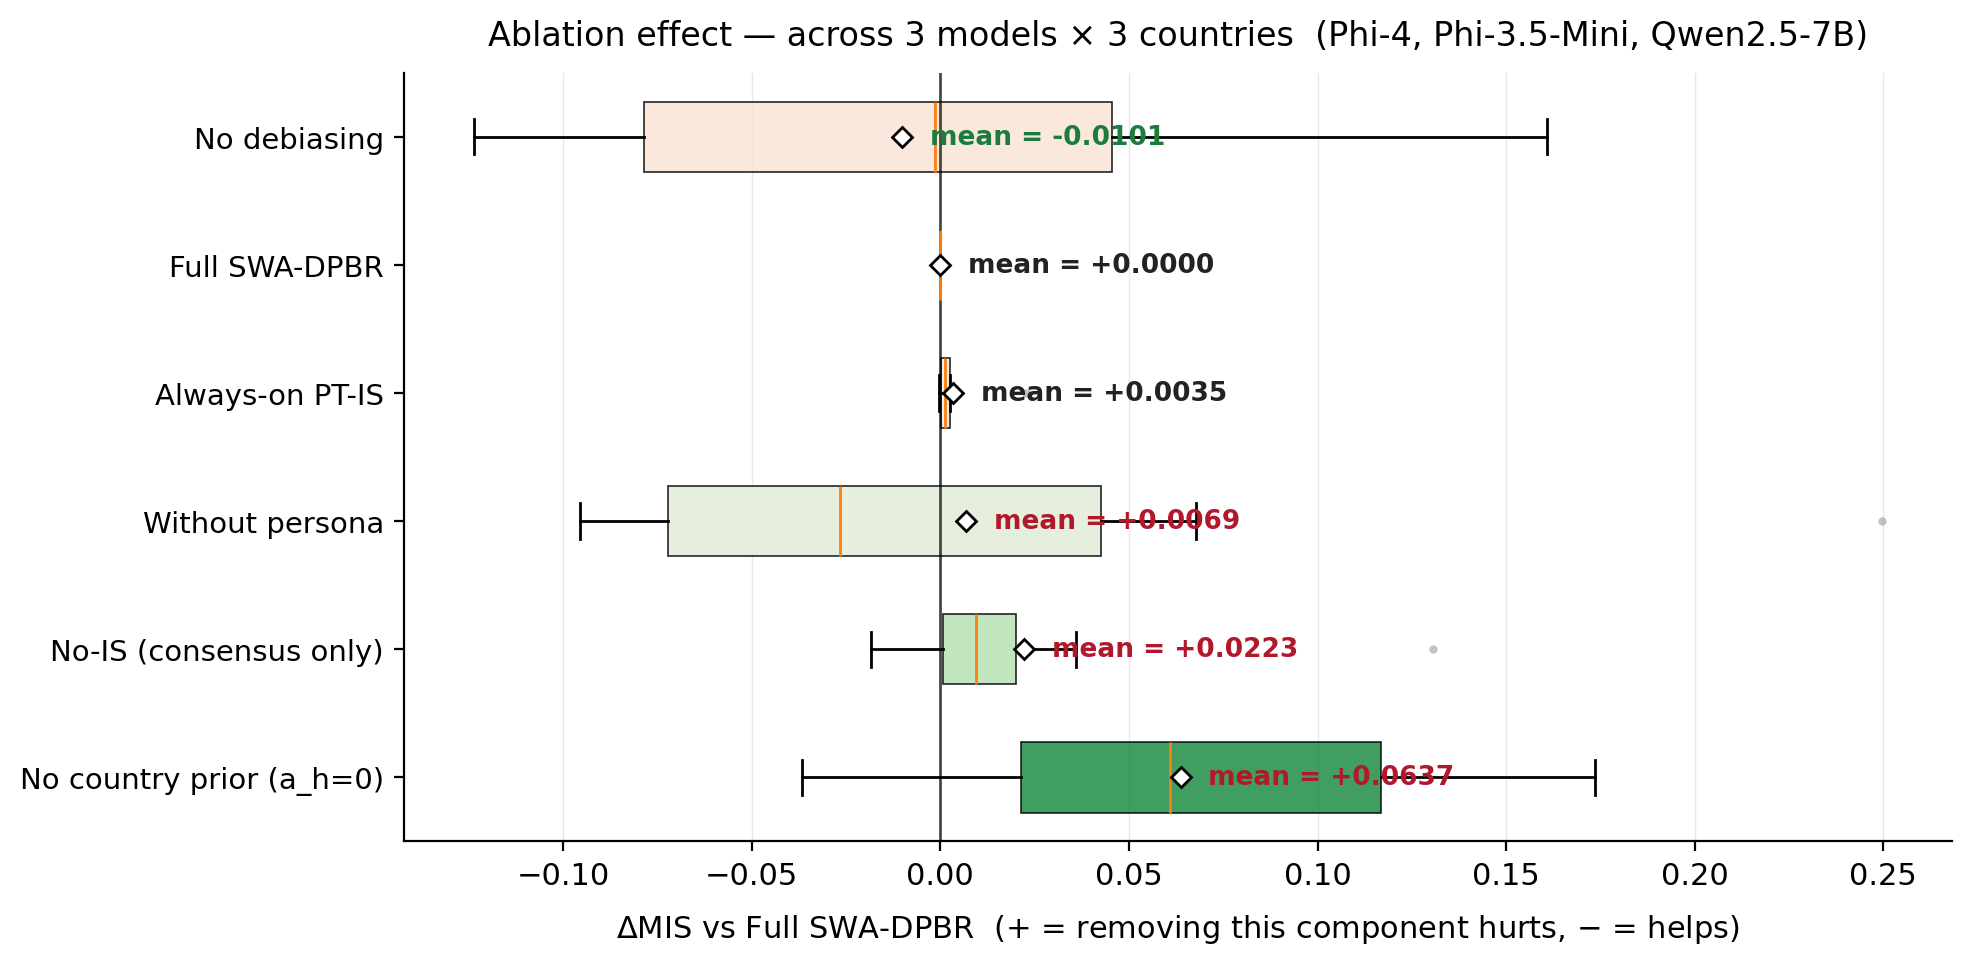
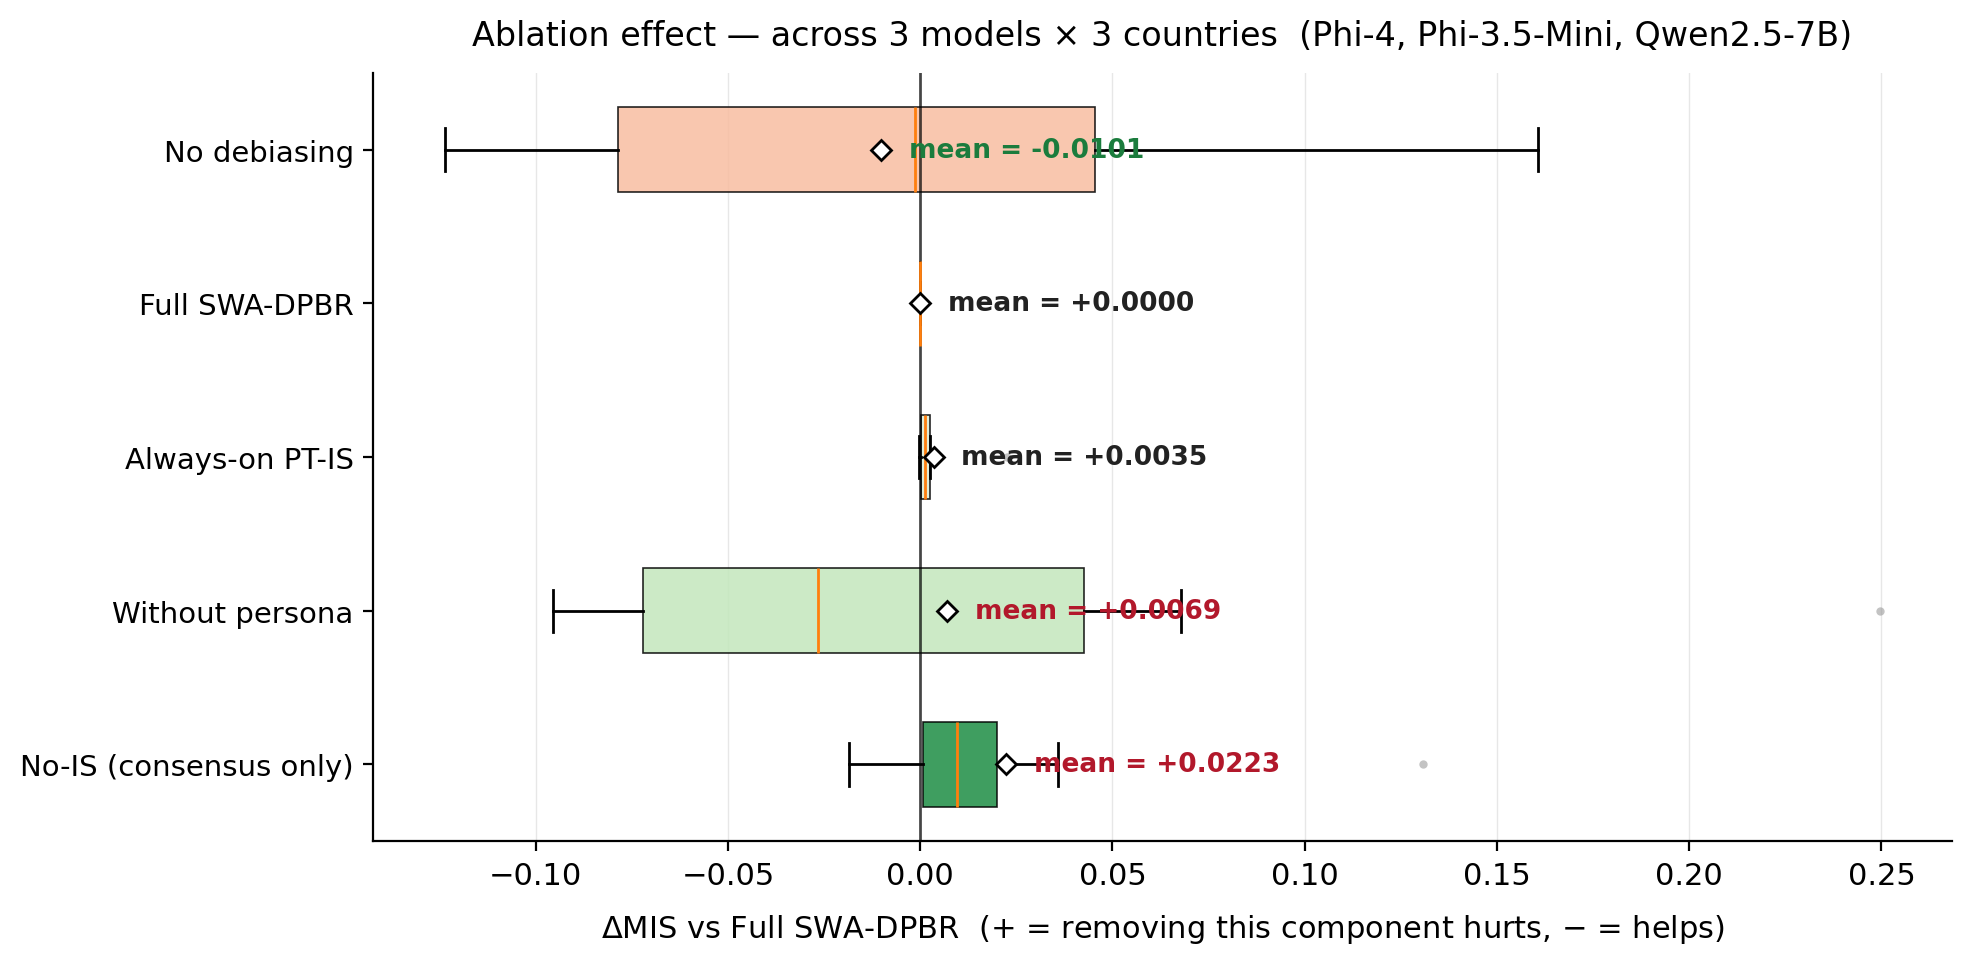
viz: drop No-country-prior ablation row from Visual 9
Remove "No country prior (a_h=0)" from the PRIMARY_ABLATIONS list so
Visual 9 only shows structural-component ablations (Step 2 debiasing,
PT-IS gate, persona panel, Step 3 IS). The country-prior knob is a
hyperparameter on the hierarchical EMA, not a structural component
of the DISCA controller, so its ablation belongs in a sensitivity
analysis section rather than the headline ablation panel.

Visual 9 now reads cleanly:
  No-IS (consensus only)   +0.0223  (Step 3 IS is load-bearing)
  Without persona          +0.0069
  Always-on PT-IS          +0.0035  (gate matters)
  Full SWA-DPBR             0.0000  (reference)
  No debiasing             -0.0101  (MIS-only; debiasing's value is in
                                      rank-order metrics per JSD-paradox
                                      note in tracker)

No raw CSVs were modified — the ablation_breadth_summary.csv still
contains the country-prior rows for transparency. Filtering happens
only in the visualization layer.

Changed region(s): [[0.0, 0.0933, 0.8975, 0.9948], [0.2476, 0.0, 0.9594, 0.0622], [0.2476, 0.8705, 0.3095, 0.9326]]

diff --git a/_local_run/run_oral_visuals.py b/_local_run/run_oral_visuals.py
@@ -1003,7 +1003,8 @@ PRIMARY_ABLATIONS = [
     "Always-on PT-IS",
     "No debiasing",
     "Without persona",
-    "No country prior (a_h=0)",
+    # "No country prior (a_h=0)" intentionally excluded — treated as a tuning
+    # hyperparameter rather than a structural component of DISCA.
 ]
 
 
